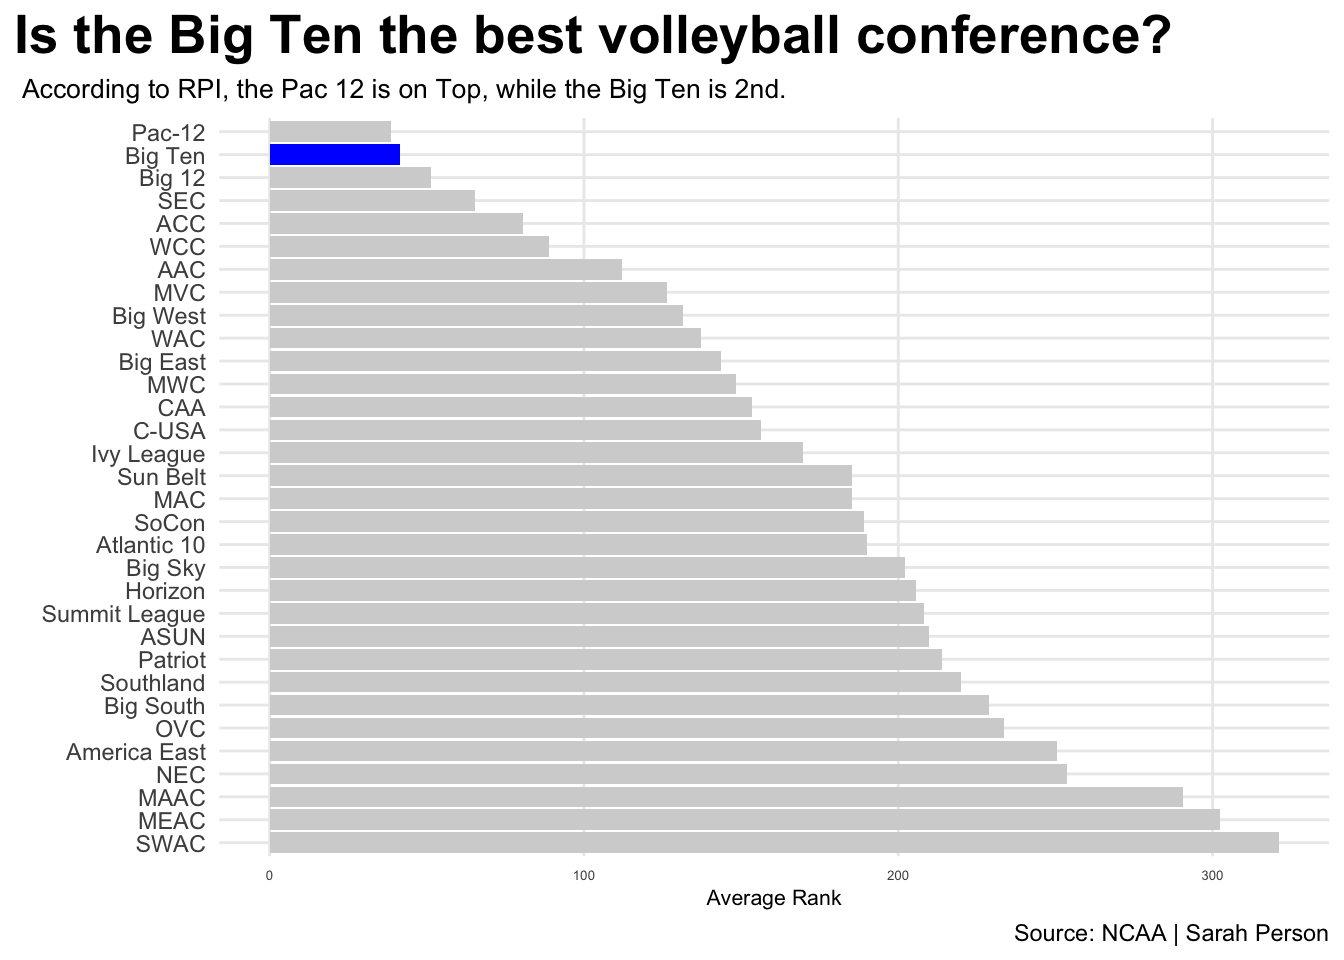
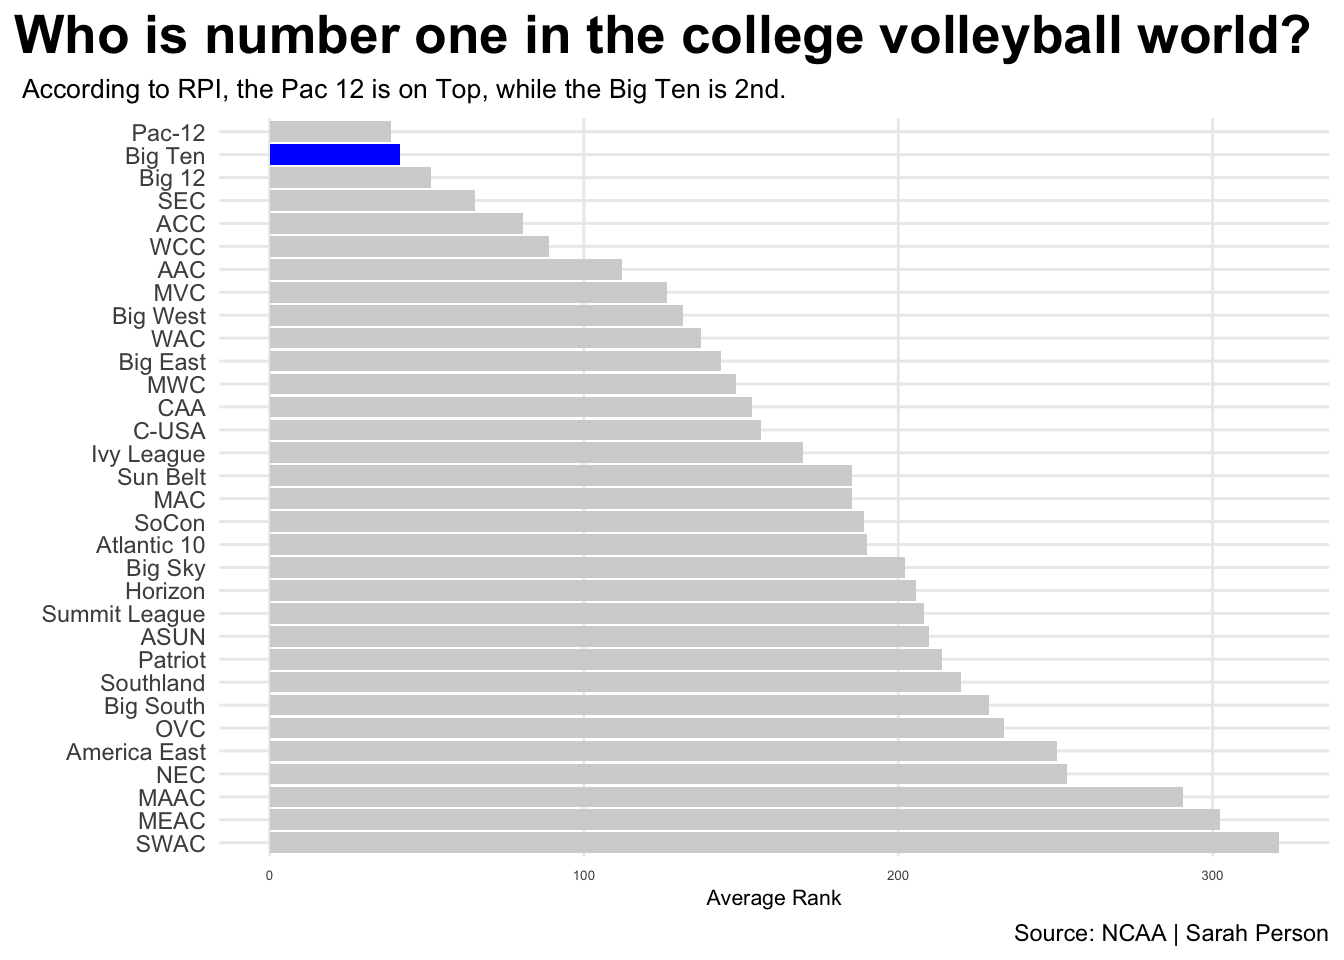
project 1

Changed region(s): [[0.0, 0.0, 0.9688, 0.0625]]

diff --git a/posts/is-the-big-10-the-best-volleyball-conference/index.html b/posts/is-the-big-10-the-best-volleyball-conference/index.html
@@ -241,7 +241,7 @@ code span.wa { color: #60a0b0; font-weight: bold; font-style: italic; } /* Warni
 <span id="cb1-21"><a href="#cb1-21" aria-hidden="true" tabindex="-1"></a><span class="fu">labs</span>(</span>
 <span id="cb1-22"><a href="#cb1-22" aria-hidden="true" tabindex="-1"></a>    <span class="at">x=</span><span class="st">""</span>, </span>
 <span id="cb1-23"><a href="#cb1-23" aria-hidden="true" tabindex="-1"></a>    <span class="at">y=</span><span class="st">"Average Rank"</span>, </span>
-<span id="cb1-24"><a href="#cb1-24" aria-hidden="true" tabindex="-1"></a>    <span class="at">title=</span><span class="st">"Is the Big Ten the best volleyball conference?"</span>, </span>
+<span id="cb1-24"><a href="#cb1-24" aria-hidden="true" tabindex="-1"></a>    <span class="at">title=</span><span class="st">"Who is number one in the college volleyball world?"</span>, </span>
 <span id="cb1-25"><a href="#cb1-25" aria-hidden="true" tabindex="-1"></a>    <span class="at">subtitle=</span><span class="st">" According to RPI, the Pac 12 is on Top, while the Big Ten is 2nd."</span>, </span>
 <span id="cb1-26"><a href="#cb1-26" aria-hidden="true" tabindex="-1"></a>    <span class="at">caption=</span><span class="st">"Source: NCAA | Sarah Person"</span></span>
 <span id="cb1-27"><a href="#cb1-27" aria-hidden="true" tabindex="-1"></a>    ) <span class="sc">+</span></span>
@@ -276,7 +276,7 @@ code span.wa { color: #60a0b0; font-weight: bold; font-style: italic; } /* Warni
 <span id="cb2-10"><a href="#cb2-10" aria-hidden="true" tabindex="-1"></a>         <span class="at">colors=</span><span class="fu">c</span>(<span class="st">"#E41C38"</span>, <span class="st">"#041E42"</span>, <span class="st">"#8C1515"</span>, <span class="st">"#FFFFFF"</span>)) <span class="sc">+</span></span>
 <span id="cb2-11"><a href="#cb2-11" aria-hidden="true" tabindex="-1"></a><span class="fu">labs</span>(</span>
 <span id="cb2-12"><a href="#cb2-12" aria-hidden="true" tabindex="-1"></a>     <span class="at">x=</span><span class="st">"Big 10"</span>,</span>
-<span id="cb2-13"><a href="#cb2-13" aria-hidden="true" tabindex="-1"></a>     <span class="at">title=</span><span class="st">"Which volleyball conference is the most dominant?"</span>,</span>
+<span id="cb2-13"><a href="#cb2-13" aria-hidden="true" tabindex="-1"></a>     <span class="at">title=</span><span class="st">"Which conference is the most dominant?"</span>,</span>
 <span id="cb2-14"><a href="#cb2-14" aria-hidden="true" tabindex="-1"></a>     <span class="at">subtitle=</span><span class="st">"Each square is a title and the Pac 12 holds the edge."</span>) <span class="sc">+</span></span>
 <span id="cb2-15"><a href="#cb2-15" aria-hidden="true" tabindex="-1"></a>   <span class="fu">theme</span>(</span>
 <span id="cb2-16"><a href="#cb2-16" aria-hidden="true" tabindex="-1"></a>    <span class="at">plot.title =</span> <span class="fu">element_text</span>(<span class="at">size =</span> <span class="dv">16</span>, <span class="at">face =</span> <span class="st">"bold"</span>),</span>

diff --git a/about.html b/about.html
@@ -119,8 +119,7 @@ ul.task-list li input[type="checkbox"] {
 <div class="quarto-title-meta">
   </div>
 </header><main class="content" id="quarto-document-content">
-<p>I am a sophomore at the University of Nebraska Lincoln. I am majoring in sports media and communications and broadcasting. I have had a ton of experience here at UNL which include sports writing, broadcasting, photography and videography! My dream job is to become a play by player announcer for Nebraska volleyball on the radio or t.v.<br>
-</p>
+<p>I am a sophomore at the University of Nebraska Lincoln. I am majoring in sports media and communications and broadcasting. I have had a ton of experience here at UNL which include sports writing, broadcasting, photography and videography! My dream job is to become a play by player announcer for Nebraska volleyball on the radio or t.v.</p>
 
 
 </main> 

diff --git a/index.html b/index.html
@@ -171,7 +171,7 @@ ul.task-list li input[type="checkbox"] {
 
 <div class="quarto-listing quarto-listing-container-default" id="listing-listing">
 <div class="list quarto-listing-default">
-<div class="quarto-post image-right" data-index="0" data-categories="volleyball,code,analysis" data-listing-date-sort="1681102800000" data-listing-file-modified-sort="1681224061927" data-listing-reading-time-sort="3.85">
+<div class="quarto-post image-right" data-index="0" data-categories="volleyball,code,analysis" data-listing-date-sort="1681102800000" data-listing-file-modified-sort="1681241841543" data-listing-reading-time-sort="3.85">
 <div class="thumbnail">
 <p><a href="./posts/is-the-big-10-the-best-volleyball-conference/index.html"> <img src="./posts/is-the-big-10-the-best-volleyball-conference/image.png" class="thumnail-image"> </a></p>
 </div>
